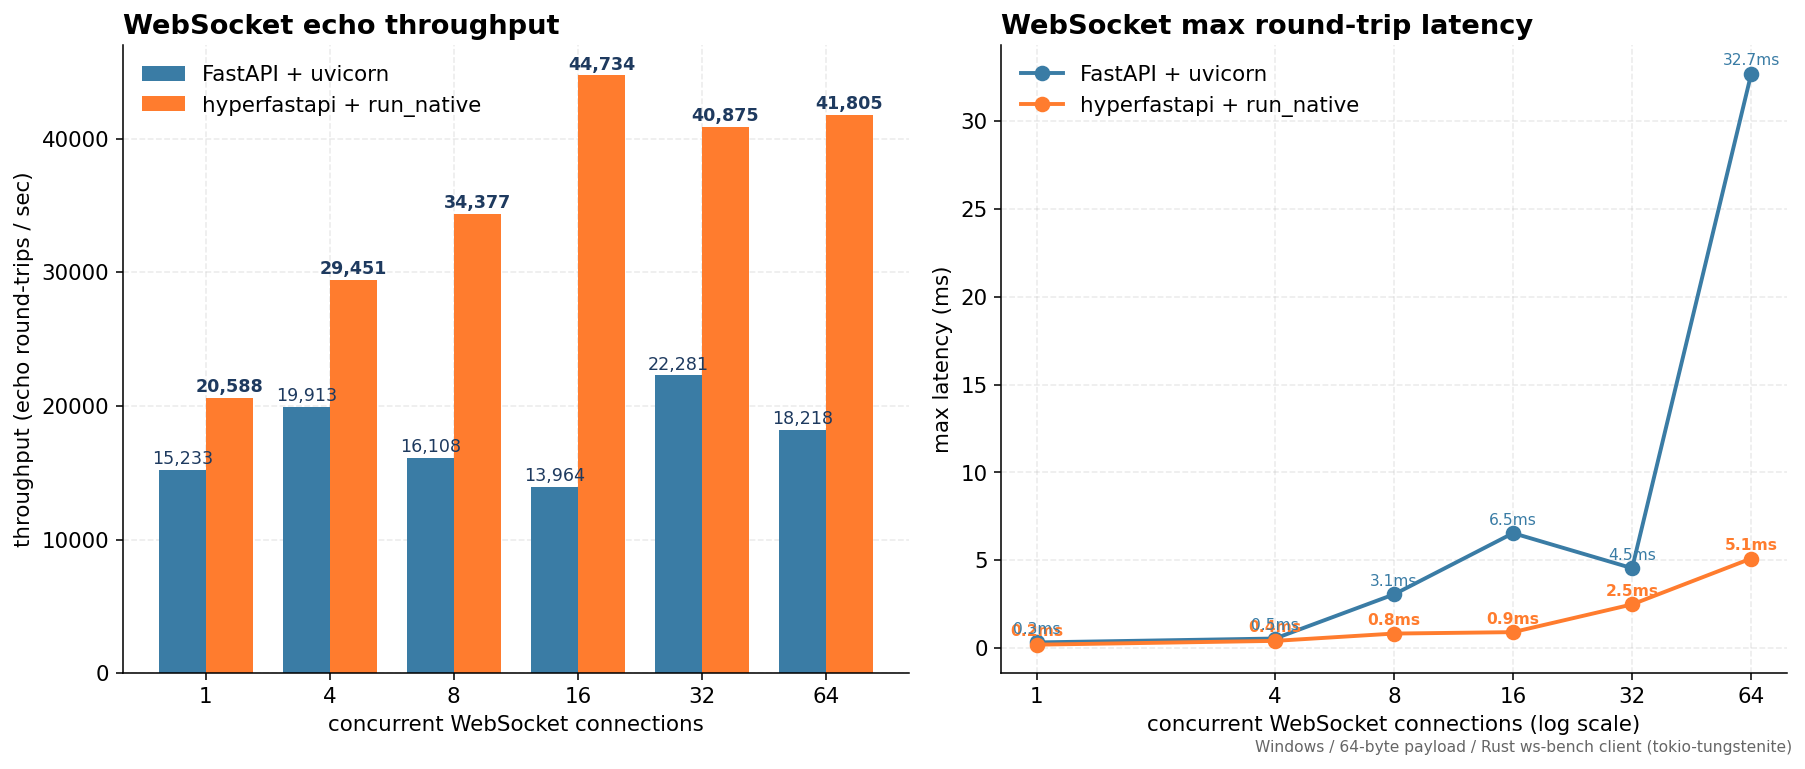
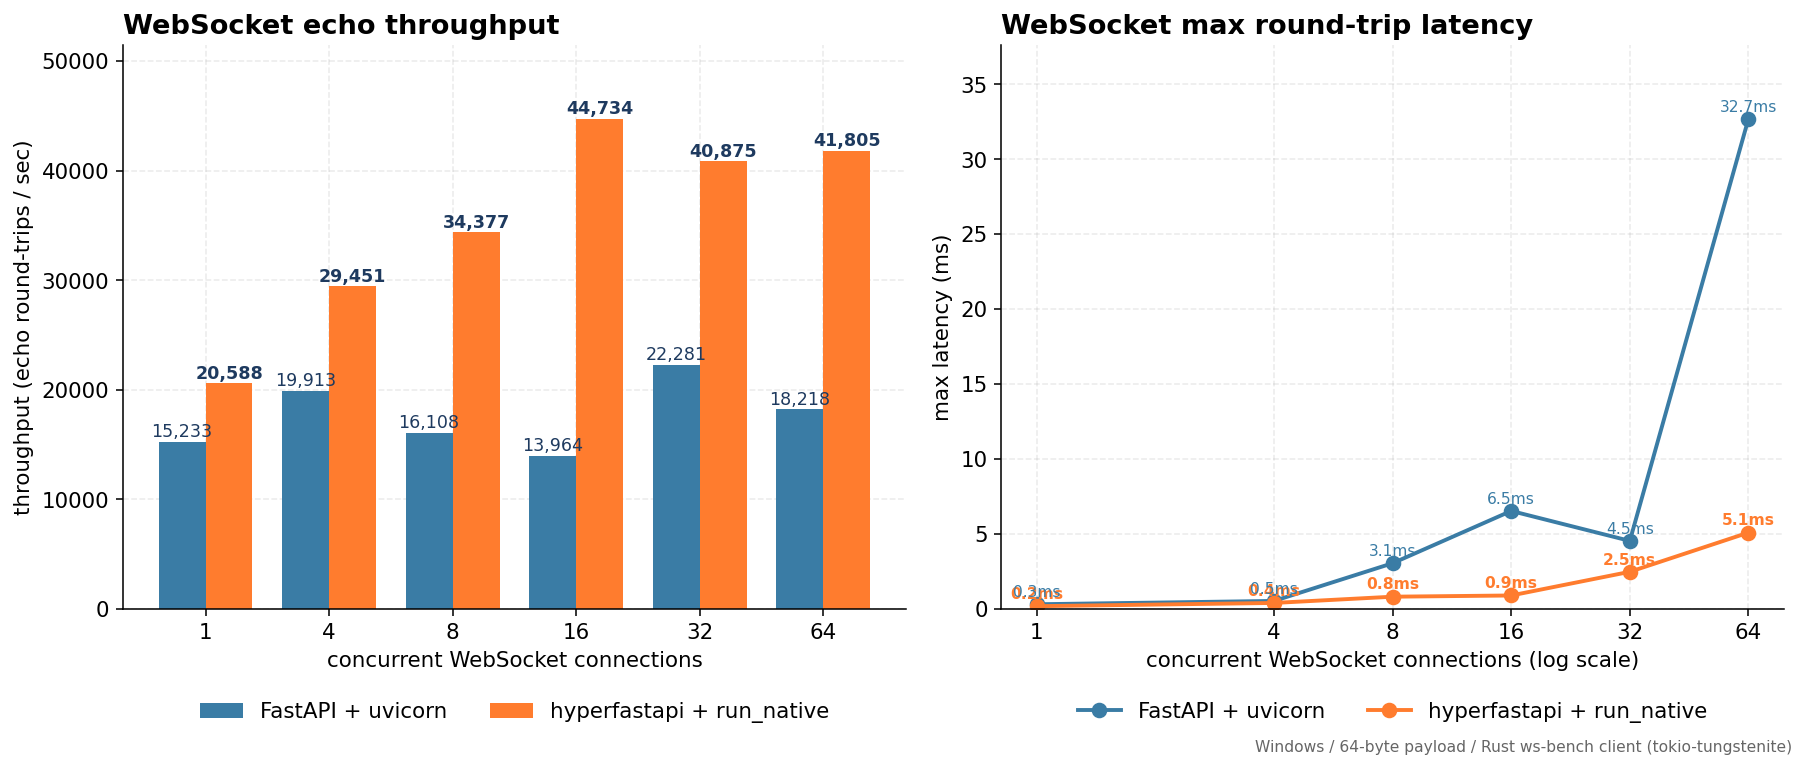
docs: move chart legends below plot to stop overlap with bars
The previous chart placement put the legend at "lower right" — fine when
the longest bars stopped well short of the right edge, but with the
refreshed multi-process numbers (155k for /plain, 150k for /with-mw,
143k for /async) the bars now reach the right edge and the legend ended
up sitting on top of "FastAPI + uvicorn" / "hyperfastapi + hyper" /
"100k RPS goal" labels.

Fix: move all four chart legends below the axis area via
`bbox_to_anchor=(0.5, -0.12), loc="upper center"`, with `ncol=2` (or 3
for the multi-process chart that has the goal-line label too). Also bump
xlim/ylim by 13-15% so the value labels at bar tips don't get clipped at
the chart edge.

Files touched:
  * docs/perf/render_charts.py — single, multi, speedup
  * docs/perf/render_ws_chart.py — throughput + latency twin panels
  * docs/img/*.png — re-rendered

Plus .pre-commit-config.yaml + README contrib note so future changes
that miss `cargo fmt` get caught locally before CI fails.

diff --git a/docs/perf/render_charts.py b/docs/perf/render_charts.py
@@ -86,7 +86,12 @@ def chart_single(results: dict) -> None:
     ax.invert_yaxis()
     ax.set_xlabel("Requests per second (higher is better)")
     ax.set_title("Single-process throughput", loc="left")
-    ax.legend(loc="lower right", frameon=False)
+    # Headroom for the value labels at the bar tips so the longest bars
+    # don't get their numbers clipped at the right edge.
+    ax.set_xlim(0, max(fastapi + hyper) * 1.13)
+    # Legend below the plot so it never overlaps the long bars.
+    ax.legend(loc="upper center", bbox_to_anchor=(0.5, -0.12),
+              ncol=2, frameon=False)
     fig.text(0.99, 0.01,
              "Windows / single Python process / bombardier c=100 / 5s per scenario",
              ha="right", fontsize=8, color="#666")
@@ -125,7 +130,11 @@ def chart_multi(results: dict, multiproc: dict) -> None:
     ax.invert_yaxis()
     ax.set_xlabel("Requests per second (higher is better)")
     ax.set_title(f"Multi-process throughput (workers = {multiproc['workers']})", loc="left")
-    ax.legend(loc="lower right", frameon=False)
+    ax.set_xlim(0, max_v * 1.13)
+    # Three-item legend below the plot so neither the bars nor the goal
+    # line get covered.
+    ax.legend(loc="upper center", bbox_to_anchor=(0.5, -0.12),
+              ncol=3, frameon=False)
     fig.text(0.99, 0.01,
              "Windows / N independent Python processes / bombardier per process aggregated",
              ha="right", fontsize=8, color="#666")
@@ -169,7 +178,9 @@ def chart_speedup(results: dict, multiproc: dict) -> None:
     ax.invert_yaxis()
     ax.set_xlabel("Speedup over FastAPI + uvicorn (higher is better)")
     ax.set_title("Throughput speedup vs FastAPI + uvicorn", loc="left")
-    ax.legend(loc="lower right", frameon=False)
+    ax.set_xlim(0, max_v * 1.13)
+    ax.legend(loc="upper center", bbox_to_anchor=(0.5, -0.12),
+              ncol=2, frameon=False)
     fig.tight_layout()
     out = OUT_DIR / "perf_speedup.png"
     fig.savefig(out, dpi=140, bbox_inches="tight")

diff --git a/docs/perf/render_ws_chart.py b/docs/perf/render_ws_chart.py
@@ -56,7 +56,10 @@ def main() -> None:
     ax1.set_xlabel("concurrent WebSocket connections")
     ax1.set_ylabel("throughput (echo round-trips / sec)")
     ax1.set_title("WebSocket echo throughput", loc="left")
-    ax1.legend(loc="upper left", frameon=False)
+    # Headroom for the value labels above the tallest bar.
+    ax1.set_ylim(0, max(hyper) * 1.15)
+    ax1.legend(loc="upper center", bbox_to_anchor=(0.5, -0.13),
+               ncol=2, frameon=False)
 
     # --- Max latency by connection count ---
     hyper_lat = [r["hyperfastapi_max_latency_ms"] for r in rows]
@@ -75,7 +78,9 @@ def main() -> None:
     ax2.set_xlabel("concurrent WebSocket connections (log scale)")
     ax2.set_ylabel("max latency (ms)")
     ax2.set_title("WebSocket max round-trip latency", loc="left")
-    ax2.legend(loc="upper left", frameon=False)
+    ax2.set_ylim(0, max(uvi_lat) * 1.15)
+    ax2.legend(loc="upper center", bbox_to_anchor=(0.5, -0.13),
+               ncol=2, frameon=False)
 
     fig.text(0.99, 0.01, "Windows / 64-byte payload / Rust ws-bench client (tokio-tungstenite)",
              ha="right", fontsize=8, color="#666")

diff --git a/README.md b/README.md
@@ -425,6 +425,13 @@ cargo clippy --workspace --all-targets -- -A warnings
 HYPERFASTAPI_AS_FASTAPI=1 PYTHONPATH=tests python -m pytest tests/conformance -q
 ```
 
+Or install the optional pre-commit hook so `cargo fmt` runs automatically on every commit:
+
+```bash
+pip install pre-commit
+pre-commit install
+```
+
 CI runs the full matrix on every PR (Linux/macOS/Windows × Python 3.10–3.13).
 
 ---
